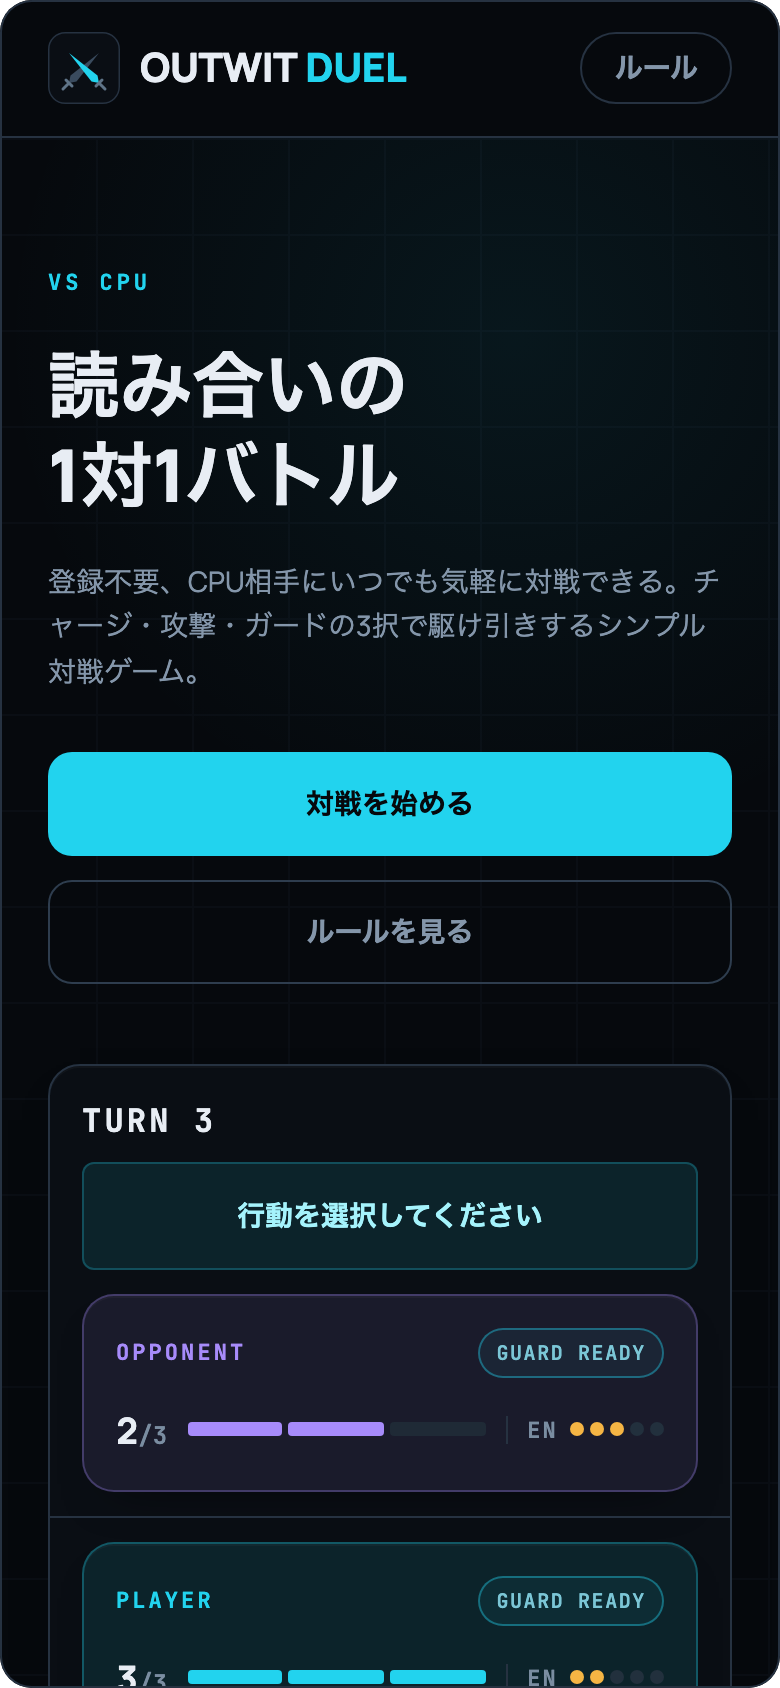
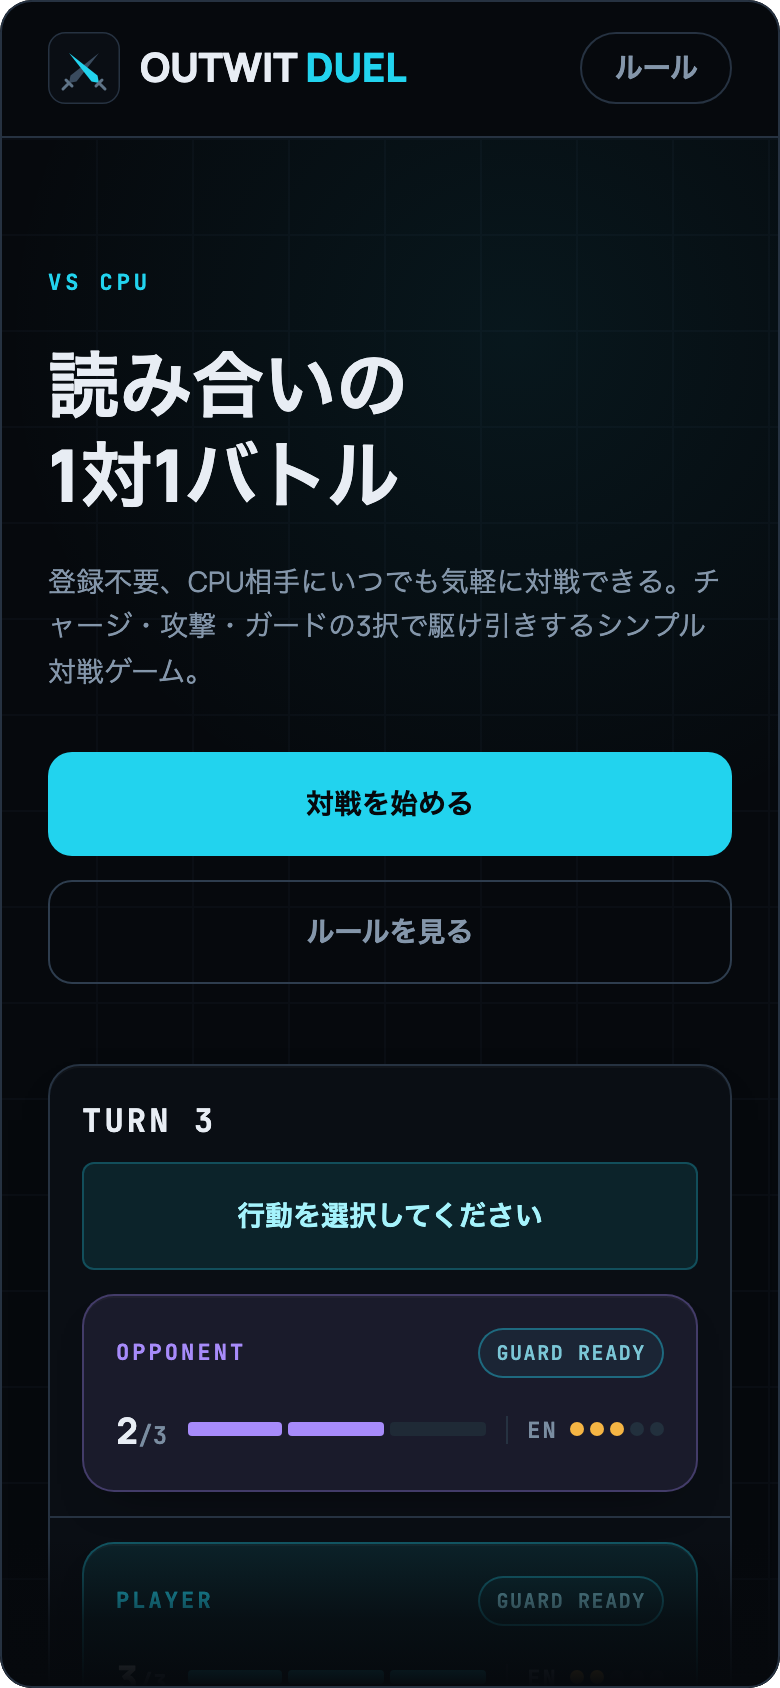
docs: レビュー指摘を反映する
- 「合法手から一様に選ぶ」が唯一の変換漏れだった。句点で終わらない
  箇条書きは、句点付きで探す grep をすり抜ける
- 「気を配ってもいる」を「気を配りました」にしていたが、継続している
  状態が過去の一回の行為に変わっていた。前後が現在形なので時制も浮く
- トップ画面の下端が「3/3」の文字を横に割る位置で切れていて撮影ミスに
  見えた。地色へのフェードを重ね、続きがあることを意図的に見せる。
  1画面に収まっている preset / battle には付けない
- 上記に合わせてトップ画面の alt にプレビューのことを書き足した

Changed region(s): [[0.0923, 0.9242, 0.8923, 1.0]]

diff --git a/README.md b/README.md
@@ -7,7 +7,7 @@
 **▶ [1v1-battle-game-ecru.vercel.app](https://1v1-battle-game-ecru.vercel.app)** — 登録不要、ブラウザだけで遊べます。
 
 <p align="center">
-  <img src="./docs/images/home.png" alt="トップ画面。「読み合いの1対1バトル」の見出しと、対戦を始めるボタン" width="260" />
+  <img src="./docs/images/home.png" alt="トップ画面。「読み合いの1対1バトル」の見出しと対戦を始めるボタン、その下に対戦画面のプレビュー" width="260" />
   <img src="./docs/images/preset.png" alt="対戦ルールの選択画面。「サクッと遊ぶ」「真剣勝負」「サドンデス」の3つのおすすめ設定" width="260" />
   <img src="./docs/images/battle.png" alt="対戦画面。両者のHPとエネルギー、ターン履歴、3つの行動ボタン" width="260" />
 </p>
@@ -81,7 +81,7 @@
 相手は2種類です。
 
 - **攻略法役** — 実際にプレイして報告された戦法（溜めておいて、相手がガードできないターンに撃つ）
-- **ランダム役** — 合法手から一様に選ぶ
+- **ランダム役** — 合法手から一様に選びます
 
 そのうえで、次のようなしきい値を表明しています。
 
@@ -92,7 +92,7 @@
 
 **「つよい − ふつう」の差だけでなく、絶対値でも表明している**のが要点です。差だけを見ると、両者が拮抗する相手では乱数のゆらぎに埋もれて実質何も検証しないテストになります。実際 hp1/cd3 でシード帯を変えながら200戦ずつ測ると、勝ち数の差は −1 / +15 / +5 / +14 / +14 と符号ごと揺れます（平均は +9）。そこでこの比較だけは600戦に広げています。
 
-結果として、**強さの変化がテストの成績として表に出る**状態を保てています。逆に、窓の狭い値に追い込まないようにも気を配りました。たとえば「選択肢の数」の重みは、テストが通る範囲 [1.75, 2.5] のほぼ中央の 2 を採っています。特定のシードにたまたま当てはまる値を選ばないためです。
+結果として、**強さの変化がテストの成績として表に出る**状態を保てています。逆に、窓の狭い値に追い込まないよう気を配ってもいます。たとえば「選択肢の数」の重みは、テストが通る範囲 [1.75, 2.5] のほぼ中央の 2 を採っています。特定のシードにたまたま当てはまる値を選ばないためです。
 
 ### Claude Code向けの開発基盤
 
